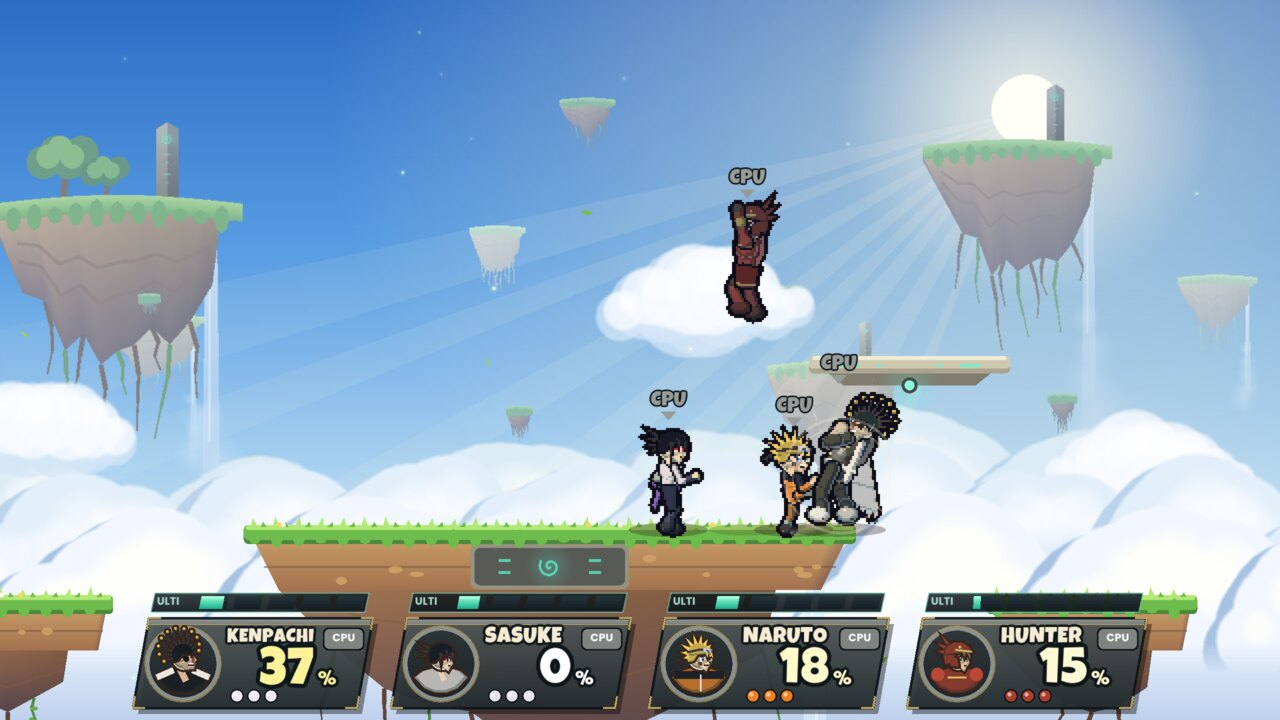
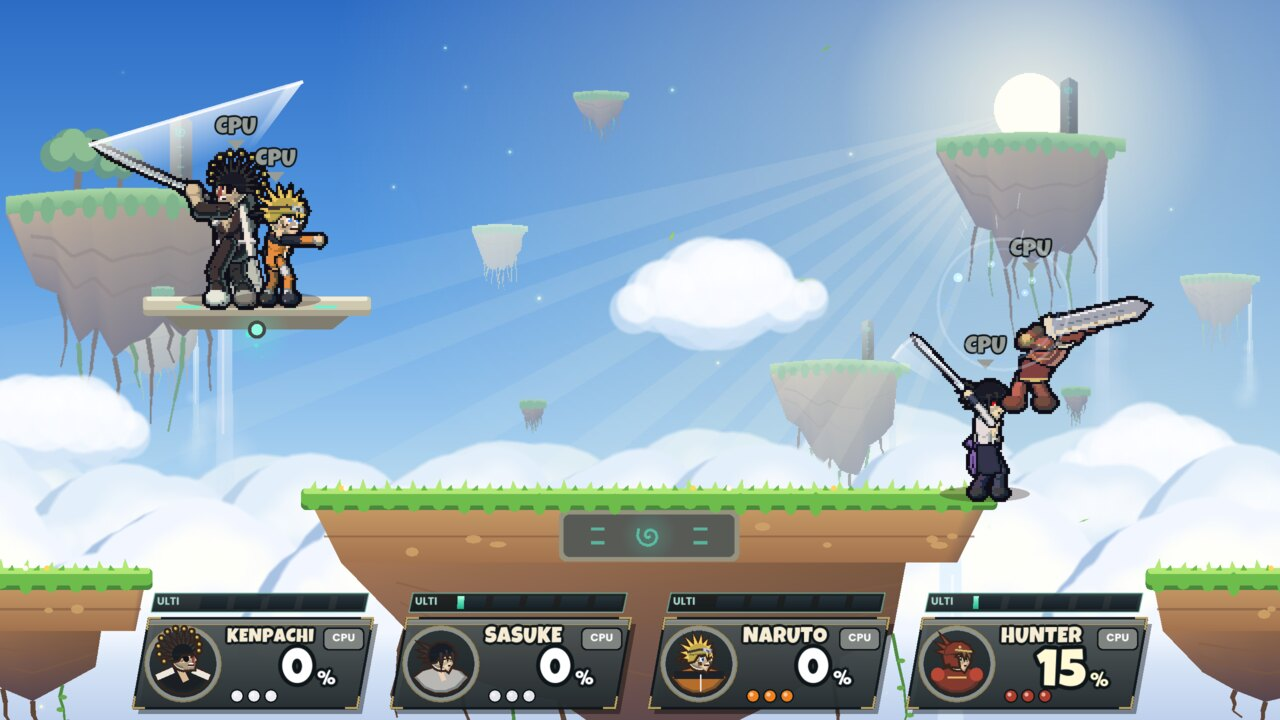
Natural weapon guards: no more blades pointing at the ground like a cane
Outside of attacks, a fighter now carries its weapon by kind instead of
holding every blade tip-down in front of the hips:
- great swords and cleavers (Asta, Kenpachi, the Hunter, Ganondorf's
  sword) rest on the shoulder, below the face, tip up behind;
- swords and katanas (Ichigo, Byakuya, Link, picked-up blades) are held
  up in guard, and trail behind when running;
- spears stand upright and are levelled forward in a run; axes are held
  low with the head up by the shoulder.
Blade swings now start from and settle back into that guard (shortest
way round). Byakuya's scarf hangs like cloth instead of reading as a
second sword. New dev sheet `--screen poses --tab N` shows every fighter
at rest, with each weapon, walking, running and jumping.

Claude-Session: https://claude.ai/code/session_01FnHjUgjm12ACzaJgKtXDcE

diff --git a/src/game/render_fighter.cpp b/src/game/render_fighter.cpp
@@ -66,15 +66,75 @@ void additive(bool on) {
   else ui::frameBlend();
 }
 
+// ---- Carrying a weapon --------------------------------------------------------
+// Outside of attacks the blade never points at the ground in front like a walking stick: big blades
+// rest on the shoulder, swords and katanas are held up in guard, spears and axes stand upright.
+enum class Carry { None, Shoulder, Guard, Upright, Haft, Kunai };
+Carry carryOf(WeaponVisual v) {
+  switch (v) {
+    case WeaponVisual::AstaSword: case WeaponVisual::DemonSlayer: case WeaponVisual::DemonKingSword:
+    case WeaponVisual::KenpachiSword: case WeaponVisual::Nozarashi: case WeaponVisual::RedBankai:
+    case WeaponVisual::GreatSword:
+      return Carry::Shoulder;
+    case WeaponVisual::WindSpear: case WeaponVisual::GloomSpear: case WeaponVisual::Kamutoke:
+    case WeaponVisual::LuzDeLaLuna: case WeaponVisual::Gunlance:
+      return Carry::Upright;
+    case WeaponVisual::LeviathanAxe: return Carry::Haft;
+    case WeaponVisual::KakashiKunai: return Carry::Kunai;
+    default: return isHandWeapon(v) ? Carry::Guard : Carry::None;
+  }
+}
+// The weapon in hand outside of attacks: a picked-up one, else the fighter's own blade if it keeps it drawn.
+WeaponVisual carriedWeapon(const CharacterDef& d, WeaponVisual held) {
+  if (isHandWeapon(held)) return held;
+  switch (d.hero) {
+    case Hero::Asta: case Hero::Ichigo: case Hero::Byakuya: case Hero::Link: case Hero::Kenpachi: case Hero::Hunter:
+      return d.baseWeapon;
+    default: return WeaponVisual::None;
+  }
+}
+WeaponVisual heldVisual(const Fighter& f) { return f.weaponDef() ? f.weaponDef()->visual : WeaponVisual::None; }
+enum class Gait { Stand, Walk, Run, Air };
+// Sets the front hand and the blade for the way the fighter moves (the other states keep the standing blade).
+void carryWeapon(Pose& p, WeaponVisual v, float H, Gait g, float bob = 0.0f) {
+  const Carry c = carryOf(v);
+  if (c == Carry::None) return;
+  p.weapon = true;
+  auto at = [&](float x, float y) { return Vec2{x * H, y * H + bob}; };
+  switch (c) {
+    case Carry::Shoulder:  // the flat of the blade on the shoulder, the tip up behind the head
+      p.handF = g == Gait::Run ? at(0.12f, -0.07f) : at(0.13f, -0.05f);
+      p.weaponDir = g == Gait::Run ? Vec2{-1.0f, -0.3f} : Vec2{-1.0f, -0.38f};
+      break;
+    case Carry::Guard:  // blade up at the opponent; trailing behind when running
+      if (g == Gait::Stand) p.handF = at(0.19f, -0.03f), p.weaponDir = {1.0f, -0.8f};
+      if (g == Gait::Run) p.weaponDir = {-1.0f, -0.12f};
+      break;
+    case Carry::Upright:  // spear standing by the side; levelled forward in a charge
+      if (g == Gait::Stand) p.handF = at(0.17f, 0.0f), p.weaponDir = {0.2f, -1.0f};
+      if (g == Gait::Run) p.handF = at(0.14f, -0.05f), p.weaponDir = {1.0f, -0.4f};
+      break;
+    case Carry::Haft:  // axe in a low fist, the head up by the shoulder
+      if (g == Gait::Stand) p.handF = at(0.17f, 0.05f), p.weaponDir = {0.55f, -1.0f};
+      if (g == Gait::Run) p.weaponDir = {0.3f, -1.0f};
+      break;
+    case Carry::Kunai:
+      if (g == Gait::Stand) p.handF = at(0.18f, -0.06f), p.weaponDir = {1.0f, -0.25f};
+      break;
+    case Carry::None: break;
+  }
+}
+
 // flip: the air-jump somersault (never for attacks: the striking limb must stay on its hitbox).
 Pose airPose(const Fighter& f, const Match& m, float time, bool flip = true) {
   const float H = f.height();
-  Pose p = restPose(*f.def, time);
+  Pose p = restPose(*f.def, time, heldVisual(f));
   float k = smoothstep((f.vel.y + 3.0f) / 6.0f);  // rising -> falling, no pop at the apex
   p.footF = lerpv({0.10f * H, 0.34f * H}, {0.08f * H, 0.46f * H}, k);
   p.footB = lerpv({-0.08f * H, 0.42f * H}, {-0.10f * H + std::sin(time * 8.0f) * 0.02f * H, 0.50f * H}, k);
   p.handF = lerpv({0.22f * H, -0.10f * H}, {0.24f * H, -0.17f * H}, k);
   p.handB = lerpv({-0.16f * H, -0.08f * H}, {-0.19f * H, -0.15f * H}, k);
+  carryWeapon(p, carriedWeapon(*f.def, heldVisual(f)), H, Gait::Air);
   float st = f.vel.y < 0.0f ? std::min(0.12f, -f.vel.y * 0.009f) : std::min(0.05f, f.vel.y * 0.004f);
   p.squash = 1.0f + st;  // stretched along the vertical speed
   p.sx = 1.0f - st * 0.6f;
@@ -337,6 +397,9 @@ void applyMove(Pose& p, const Fighter& f, float time) {
   const float H = f.height();
   const int t = f.moveFrame;
   const Vec2 shoulder{0.03f * H, -0.17f * H};
+  // Blade swings start from and settle back into the guard the fighter stands in.
+  const float guard = p.weapon ? std::atan2(p.weaponDir.y, p.weaponDir.x) : -0.5f;
+  auto toward = [](float a, float b, float k) { return a + wrapPi(b - a) * k; };
 
   if (m.isGrab || m.throwFrame >= 0) {
     float k = m.isGrab ? smoothstep(t / 6.0f) : smoothstep(float(t) / std::max(1, m.throwFrame));
@@ -446,15 +509,15 @@ void applyMove(Pose& p, const Fighter& f, float time) {
       case Limb::Weapon: {
         p.weapon = true;
         if (s.hb->swing) {  // the blade sits exactly where its hitbox is (core/swing.hpp)
-          const float rest = 0.6f, A0 = -deg2rad(s.hb->a0), A1 = -deg2rad(s.hb->a1);
+          const float A0 = -deg2rad(s.hb->a0), A1 = -deg2rad(s.hb->a1);
           const float way = A1 >= A0 ? 1.0f : -1.0f;  // sweep direction (screen angles)
-          float a = rest;
+          float a = guard;
           switch (s.phase) {
-            case Phase::Wind: a = lerpf(rest, A0 - 0.45f * way, f.charging ? 1.0f : easeOut(s.k)); break;
+            case Phase::Wind: a = toward(guard, A0 - 0.45f * way, f.charging ? 1.0f : easeOut(s.k)); break;
             case Phase::Strike: a = lerpf(A0 - 0.45f * way, A0, s.k); break;
             case Phase::Active: a = -deg2rad(swingAngle(*s.hb, float(t))); break;
             case Phase::Follow:
-              a = lerpf(A1 + 0.3f * way * std::sin(kPi * std::min(1.0f, s.k * 1.8f)), rest, smoothstep(s.k));
+              a = toward(A1 + 0.3f * way * std::sin(kPi * std::min(1.0f, s.k * 1.8f)), guard, smoothstep(s.k));
               break;
             case Phase::None: break;
           }
@@ -466,15 +529,14 @@ void applyMove(Pose& p, const Fighter& f, float time) {
         float tgt = std::atan2(rel.y, rel.x);
         // The swing goes from the wind-up angle to a little past the target: the blade
         // sweeps through the hitbox during the active frames.
-        float rest = 0.6f;
         float wind = tgt - 2.0f, end = tgt + 0.3f;
-        float a = rest;
+        float a = guard;
         switch (s.phase) {
-          case Phase::Wind: a = lerpf(rest, wind, f.charging ? 1.0f : easeOut(s.k)); break;
+          case Phase::Wind: a = toward(guard, wind, f.charging ? 1.0f : easeOut(s.k)); break;
           case Phase::Strike: a = lerpf(wind, end, 0.6f * s.k); break;
           case Phase::Active: a = lerpf(wind, end, 0.6f + 0.4f * smoothstep(s.k)); break;
           case Phase::Follow:
-            a = lerpf(end, rest, smoothstep(s.k)) + 0.35f * std::sin(kPi * std::min(1.0f, s.k * 1.6f)) * (1.0f - s.k);
+            a = toward(end, guard, smoothstep(s.k)) + 0.35f * std::sin(kPi * std::min(1.0f, s.k * 1.6f)) * (1.0f - s.k);
             break;
           case Phase::None: break;
         }
@@ -577,7 +639,7 @@ Pose finalSmashPose(const Fighter& f, Pose p) {
 }
 }  // namespace
 
-Pose restPose(const CharacterDef& d, float time) {
+Pose restPose(const CharacterDef& d, float time, WeaponVisual held) {
   const float H = d.height;
   Pose p;
   const float br = std::sin(time * 2.6f);  // breathing
@@ -598,22 +660,29 @@ Pose restPose(const CharacterDef& d, float time) {
     p.lean += lean;
     p.crouch += crouch;
   };
-  auto blade = [&](Vec2 dir) {
-    p.weapon = true;
-    p.weaponDir = rotate(dir.norm(), br * 0.03f);
-  };
   switch (d.hero) {  // each hero's guard
-    case Hero::Asta: stance({0.17f, 0.0f}, {-0.03f, 0.06f}, 0.14f, -0.13f, 0.06f, 0.12f); blade({1.0f, 0.62f}); break;
+    case Hero::Asta: stance({0.17f, 0.0f}, {-0.03f, 0.06f}, 0.14f, -0.13f, 0.06f, 0.12f); break;
     case Hero::Yuno: stance({0.11f, 0.07f}, {-0.05f, 0.07f}, 0.08f, -0.07f, -0.02f, 0.0f); break;
-    case Hero::Ichigo: stance({0.2f, 0.0f}, {0.03f, 0.07f}, 0.12f, -0.11f, 0.03f, 0.08f); blade({1.0f, 0.42f}); break;
-    case Hero::Byakuya: stance({0.12f, 0.07f}, {-0.03f, 0.08f}, 0.08f, -0.07f, -0.06f, 0.0f); blade({0.4f, 1.0f}); break;
-    case Hero::Link: stance({0.17f, 0.05f}, {0.17f, -0.07f}, 0.12f, -0.12f, 0.04f, 0.1f); blade({1.0f, 0.28f}); break;
+    case Hero::Ichigo: stance({0.2f, 0.0f}, {0.03f, 0.07f}, 0.12f, -0.11f, 0.03f, 0.08f); break;
+    case Hero::Byakuya: stance({0.12f, 0.07f}, {-0.03f, 0.08f}, 0.08f, -0.07f, -0.06f, 0.0f); break;
+    case Hero::Link: stance({0.17f, 0.05f}, {0.17f, -0.07f}, 0.12f, -0.12f, 0.04f, 0.1f); break;
     case Hero::Ganondorf: stance({0.17f, 0.05f}, {-0.12f, 0.05f}, 0.12f, -0.13f, 0.0f, 0.06f); break;
     case Hero::Kratos: stance({0.16f, 0.02f}, {0.03f, 0.05f}, 0.13f, -0.12f, 0.06f, 0.1f); break;
     case Hero::Gojo: stance({0.04f, 0.09f}, {-0.05f, 0.09f}, 0.07f, -0.07f, -0.1f, 0.0f); break;
     case Hero::Sukuna: stance({0.1f, 0.08f}, {-0.06f, 0.08f}, 0.1f, -0.09f, 0.04f, 0.04f); break;
     default: break;
   }
+  const WeaponVisual v = carriedWeapon(d, held);
+  carryWeapon(p, v, H, Gait::Stand, bob);
+  if (v == d.baseWeapon) {
+    switch (d.hero) {  // personal touches
+      case Hero::Ichigo: p.handF = {0.21f * H, -0.05f * H + bob}; p.weaponDir = {1.0f, -0.62f}; break;  // pointed at the foe
+      case Hero::Byakuya: p.weaponDir = {0.5f, -1.0f}; break;  // upright, composed
+      case Hero::Link: p.weaponDir = {1.0f, -0.5f}; break;
+      default: break;
+    }
+  }
+  if (p.weapon) p.weaponDir = rotate(p.weaponDir.norm(), br * 0.03f);
   float bl = std::fmod(time + d.height, 3.7f);
   p.blink = bl < 0.12f || (std::fmod(time * 0.37f + d.height, 3.0f) < 0.4f && bl > 0.3f && bl < 0.4f);  // sometimes twice
   return p;
@@ -623,7 +692,8 @@ Pose computePose(const Fighter& f, const Match& m, float time) {
   const CharacterDef& d = *f.def;
   const float H = d.height;
   const float tt = time + f.id * 1.7f;
-  Pose p = restPose(d, tt);
+  const WeaponVisual carried = carriedWeapon(d, heldVisual(f));
+  Pose p = restPose(d, tt, heldVisual(f));
   const float sf = float(f.stateFrame);
   switch (f.state) {
     case FState::Walk: {
@@ -634,6 +704,7 @@ Pose computePose(const Fighter& f, const Match& m, float time) {
       p.handB.x += 0.07f * H * std::sin(ph);
       p.shift.y = -std::fabs(std::cos(ph)) * 0.015f * H;  // up when a foot passes under the body
       p.lean = 0.1f;
+      carryWeapon(p, carried, H, Gait::Walk);
       break;
     }
     case FState::Run: {
@@ -656,6 +727,7 @@ Pose computePose(const Fighter& f, const Match& m, float time) {
         p.squash -= 0.06f * k;
         p.sx += 0.06f * k;
       }
+      carryWeapon(p, carried, H, Gait::Run);
       break;
     }
     case FState::Crouch: {
@@ -868,7 +940,7 @@ Pose computePose(const Fighter& f, const Match& m, float time) {
     p.heldFx = w->fx;
     if (isHandWeapon(w->visual) && !p.weapon) {
       p.weapon = true;
-      p.weaponDir = Vec2{1.0f, 0.5f}.norm();
+      p.weaponDir = Vec2{1.0f, -0.45f}.norm();
     }
   }
   p.bladeLen = f.bladeLength();

diff --git a/src/game/screen_poses.cpp b/src/game/screen_poses.cpp
@@ -1,0 +1,59 @@
+// Development sheet (--screen poses --tab PAGE): every fighter at rest, with each of its weapons,
+// walking, running and jumping, to check how the characters stand and hold their weapons.
+#include <algorithm>
+#include <cmath>
+
+#include "core/match.hpp"
+#include "game/app.hpp"
+#include "game/render.hpp"
+#include "game/ui.hpp"
+
+void App::drawPoses() {
+  constexpr int kPerPage = 5;
+  const auto& r = roster();
+  const int n = int(r.size());
+  const int pages = (n + kPerPage - 1) / kPerPage;
+  const int page = std::clamp(setTab_, 0, pages - 1);
+  const char* heads[] = {"Repos", "Arme 1", "Arme 2", "Marche", "Course", "Saut"};
+  constexpr int kCols = 6;
+  const float x0 = 150.0f, colW = 188.0f, y0 = 40.0f, rowH = 136.0f;
+  ClearBackground({58, 72, 84, 255});
+  for (int c = 0; c < kCols; ++c) {
+    if (c % 2 == 0) DrawRectangle(int(x0 + c * colW), 0, int(colW), kScreenH, {64, 79, 92, 255});
+    drawTextCentered(heads[c], x0 + (c + 0.5f) * colW, 8, 20, ui::kCream, false);
+  }
+  for (int row = 0; row < kPerPage; ++row) {
+    const int ci = page * kPerPage + row;
+    if (ci >= n) break;
+    const CharacterDef& d = r[ci];
+    const float base = y0 + (row + 1) * rowH - 12.0f;
+    DrawLine(0, int(base), kScreenW, int(base), {40, 50, 60, 255});
+    drawText(d.name.c_str(), 12, base - 60, 20, ui::kCream);
+    MatchConfig cfg;
+    cfg.items = false;
+    cfg.weapons = false;
+    cfg.slots[0] = {true, ci, true, 5};
+    cfg.slots[1] = {true, ci == 0 ? 1 : 0, true, 5};
+    for (int c = 0; c < kCols; ++c) {
+      Match m(cfg);
+      Fighter& f = m.fighters[0];
+      if (c == 1 || c == 2) m.equipWeapon(f, c - 1);
+      f.facing = 1;
+      f.grounded = true;
+      f.state = FState::Idle;
+      f.stateFrame = int(time_ * 60.0f);
+      if (c == 3) f.state = FState::Walk;
+      if (c == 4) f.state = FState::Run;
+      if (c == 5) {
+        f.state = FState::Air;
+        f.grounded = false;
+        f.vel = {0.0f, -2.0f};
+      }
+      const Pose p = computePose(f, m, time_);
+      const float scale = std::min(1.0f, 100.0f / d.height);
+      drawCharacterSprite(d, 0, p, {x0 + (c + 0.42f) * colW, base - (c == 5 ? 14.0f : 0.0f)}, 1, scale, 1.0f, WHITE,
+                          0.0f, time_);
+    }
+  }
+  drawText(TextFormat("page %d/%d", page + 1, pages), 12, kScreenH - 26, 16, ui::kMuted);
+}

diff --git a/src/game/app.hpp b/src/game/app.hpp
@@ -15,7 +15,7 @@ struct Options {
   bool training = false;         // with --screen css: training character select
   int stage = -1;
   int tab = 0;                   // with --screen settings: tab to open
-  std::string screen;            // title | menu | css | stage | results | settings
+  std::string screen;            // title | menu | css | stage | results | settings | poses
   std::vector<std::pair<int, std::string>> shots;  // frame -> screenshot path
   int quitAfter = -1;
   int pauseAt = -1;              // open the pause menu at this frame (screenshots)
@@ -74,7 +74,7 @@ class MatchScreen {
   int bestCombo_ = 0;
 };
 
-enum class Screen { Title, MainMenu, CharSelect, StageSelect, Match, Results, Settings };
+enum class Screen { Title, MainMenu, CharSelect, StageSelect, Match, Results, Settings, Poses };
 
 struct SlotSetup {
   int type = 0;  // 0 = off, 1 = human, 2 = cpu
@@ -121,6 +121,7 @@ class App {
   // screens (screen_settings.cpp)
   void updateSettings(const MenuNav& nav);
   void drawSettings();
+  void drawPoses();  // development sheet (--screen poses)
   int settingsRowCount() const;
   void changeSetting(int row, int delta);
 

diff --git a/src/game/app.cpp b/src/game/app.cpp
@@ -160,6 +160,9 @@ void App::run() {
     setTab_ = std::clamp(opt_.tab, 0, 3);
     setRow_ = opt_.tab >= 0 ? 0 : -1;
     enterScreen(Screen::Settings);
+  } else if (opt_.screen == "poses") {
+    setTab_ = std::max(0, opt_.tab);
+    enterScreen(Screen::Poses);
   } else if (opt_.screen == "training") {
     training_ = true;
     startMatch();
@@ -218,6 +221,9 @@ void App::run() {
         case Screen::StageSelect: updateStage(nav); break;
         case Screen::Results: updateResults(nav); break;
         case Screen::Settings: updateSettings(nav); break;
+        case Screen::Poses:
+          if (nav.back) quit_ = true;
+          break;
         case Screen::Match: {
           MatchScreen::Result r = match_->update();
           if (r == MatchScreen::Result::Finished) finishMatch();
@@ -241,6 +247,7 @@ void App::run() {
       case Screen::StageSelect: drawStage(); break;
       case Screen::Results: drawResults(); break;
       case Screen::Settings: drawSettings(); break;
+      case Screen::Poses: drawPoses(); break;
       case Screen::Match: if (match_) match_->draw(); break;
     }
     if (toastTimer_ > 0) {

diff --git a/src/game/render_body.cpp b/src/game/render_body.cpp
@@ -1269,12 +1269,12 @@ struct Body {
         Vec2 a[4], b[4], q[4];
         chain(R.neck + rl({-0.06f, 0.02f}), {-0.3f, 1.0f}, 0.66f * H, 3, pose, time, 0.8f, 1.0f, 0.03f, a);
         chain(R.neck + rl({0.02f, 0.05f}), {-0.02f, 1.0f}, 0.6f * H, 3, pose, time + 0.5f, 0.8f, 0.9f, 0.03f, b);
-        chain(R.neck + rl({-0.04f, -0.02f}), {-1.0f, 0.35f}, 0.62f * H, 3, pose, time + 0.2f, 0.32f, 1.2f, 0.14f, q);
+        chain(R.neck + rl({-0.04f, -0.02f}), {-0.8f, 1.0f}, 0.5f * H, 3, pose, time + 0.2f, 0.5f, 1.2f, 0.14f, q);
         group([&] {
           panel(a, b, 3, L.cloth);
           if (P.details()) DrawLineEx(X(a[3]), X(b[3]), t(0.02f), P.fill(shade(L.cloth, 0.75f)));
         });
-        group([&] { ribbon(q, 3, 0.05f, 0.036f, L.trim); });
+        group([&] { ribbon(q, 3, 0.075f, 0.05f, L.trim); });  // wide and soft: cloth, not a blade
         break;
       }
       case Hero::Ganondorf: {  // big dark red cape

diff --git a/src/game/render.hpp b/src/game/render.hpp
@@ -44,7 +44,8 @@ struct Pose {
   Form form = Form::None;  // transformation (Vasto Lorde, Segunda Etapa...)
 };
 
-Pose restPose(const CharacterDef& def, float time);
+// Standing guard; `held` is the weapon picked up during the match (carried in hand), if any.
+Pose restPose(const CharacterDef& def, float time, WeaponVisual held = WeaponVisual::None);
 Pose computePose(const Fighter& f, const Match& m, float time);
 void drawCharacter(const CharacterDef& def, int palette, const Pose& pose, Vec2 feet, int facing,
                    float scale, float alpha, Color flashColor, float flash, float time);

diff --git a/README.md b/README.md
@@ -230,6 +230,7 @@ super_clash --demo            # match de démonstration entre 4 ordinateurs
 super_clash --demo --fighters 7,8   # ... avec ces combattants (numéros dans la grille, de 0 à 14)
 super_clash --demo --fighters 6,4 --ult 1   # le premier déclenche son ultime (-1 mains nues, 0 ou 1 : arme)
 super_clash --screen menu     # démarrer sur un écran : menu, settings, css, stage, training...
+super_clash --screen poses --tab 0   # planche de poses : chaque perso au repos, avec ses armes, en marche, en course, en saut (pages 0 à 2)
 super_clash --stage 2         # arène par défaut (0, 1 ou 2)
 super_clash --debug           # zones de coup visibles
 super_clash --export-audio d  # écrit tous les sons et musiques en .wav dans le dossier d
